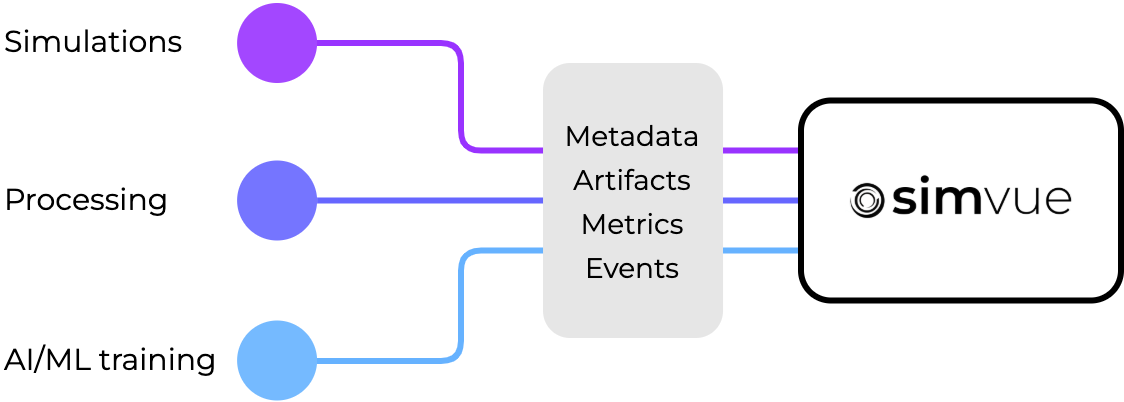
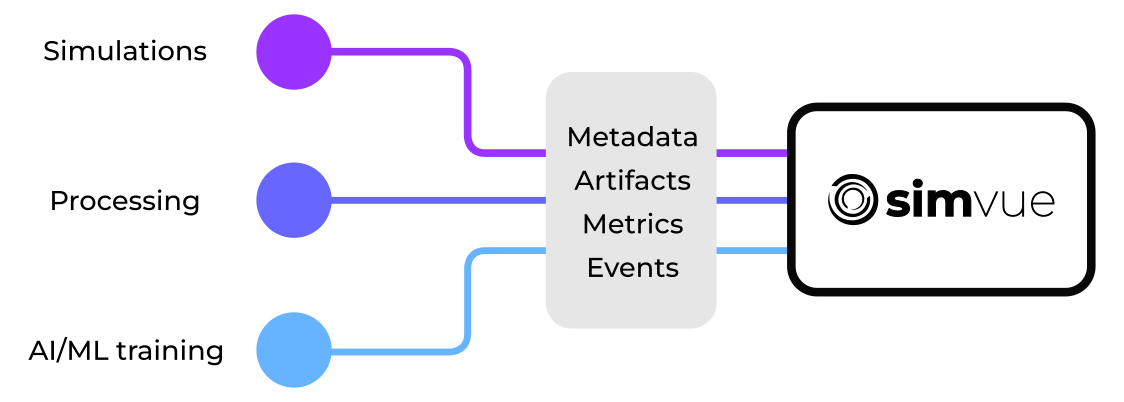
Added darkmode image variants

diff --git a/docs/index.md b/docs/index.md
@@ -4,15 +4,16 @@ Instead of keeping track of simulations, processing tasks and AI/ML training man
 and provide a single view of all your work, no matter where in the world the jobs are running.
 
 <figure markdown>
-  ![A diagram showing a simple overview of Simvue. Simulations, processing tasks or AI/ML training algorithms can be tracked by collecting metadata, artifacts, metrics and events from the application while it is being executed, and passing them to Simvue for processing and storage.](images/simvue-overview.png){ width="520" }
+  ![A diagram showing a simple overview of Simvue. Simulations, processing tasks or AI/ML training algorithms can be tracked by collecting metadata, artifacts, metrics and events from the application while it is being executed, and passing them to Simvue for processing and storage.](images/simvue-overview.png#only-light){ width="520" }
+  ![A diagram showing a simple overview of Simvue. Simulations, processing tasks or AI/ML training algorithms can be tracked by collecting metadata, artifacts, metrics and events from the application while it is being executed, and passing them to Simvue for processing and storage.](images/simvue-overview-dark.png#only-dark){ width="520" }
 </figure>
-
 
 Simvue can track and organise metadata and files, collect metrics and logs from running
 simulations or any processing tasks, as well as maintain connections between different simulations and tasks and is even inter-operable between different platforms.
 
 <figure markdown>
-  ![A diagram showing that Simvue can track simulationS which are being run on a variety of different hardware resources, including desktops, HPC clusters and cloud computing resources.](images/simvue-resources.png){ width="420" }
+  ![A diagram showing that Simvue can track simulationS which are being run on a variety of different hardware resources, including desktops, HPC clusters and cloud computing resources.](images/simvue-resources.png#only-light){ width="420" }
+  ![A diagram showing that Simvue can track simulationS which are being run on a variety of different hardware resources, including desktops, HPC clusters and cloud computing resources.](images/simvue-resources-dark.png#only-dark){ width="420" }
 </figure>
 
 Simvue consists of:
